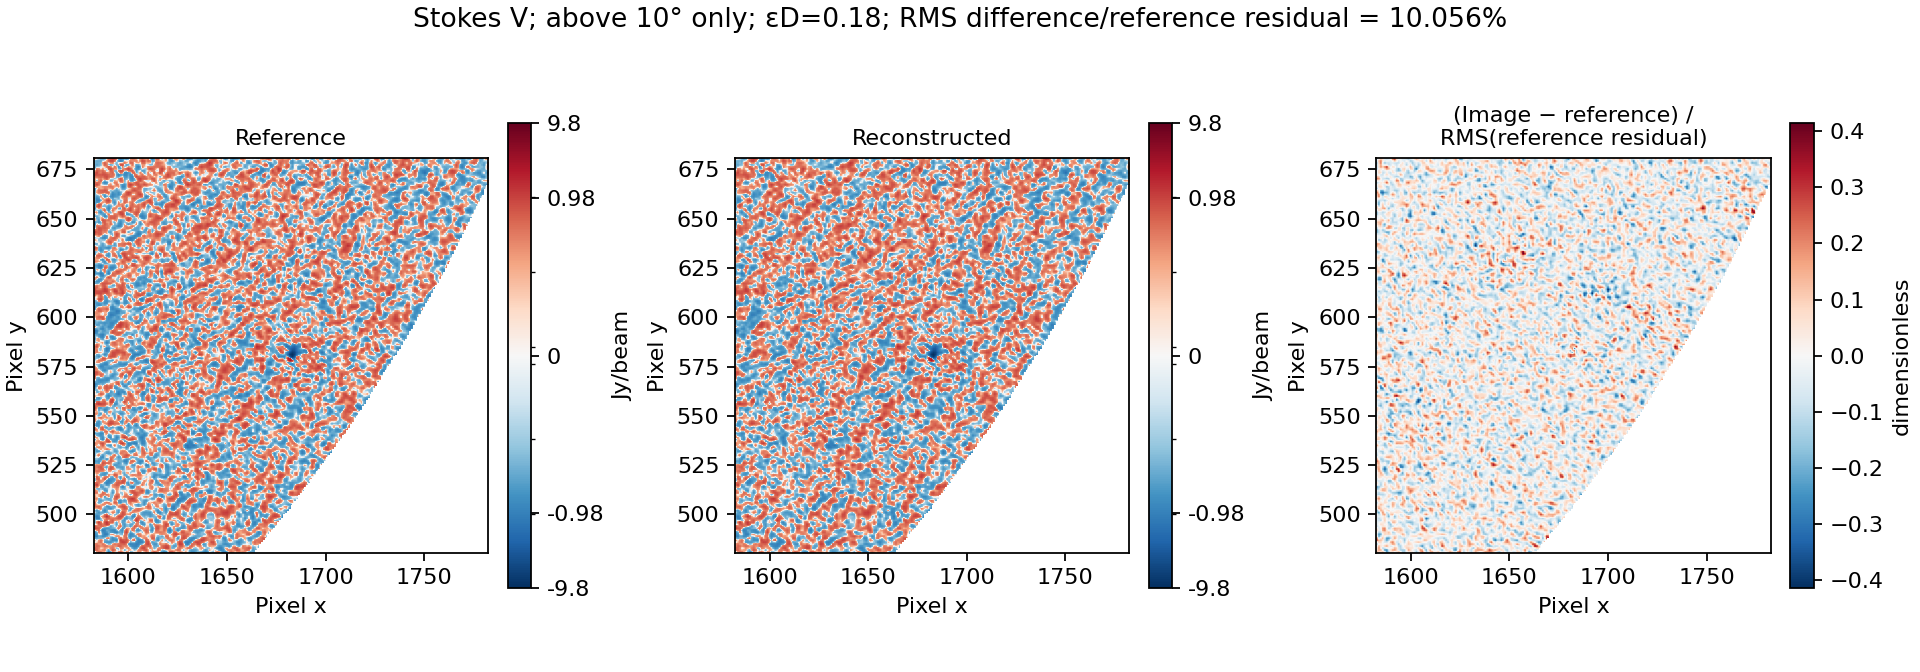
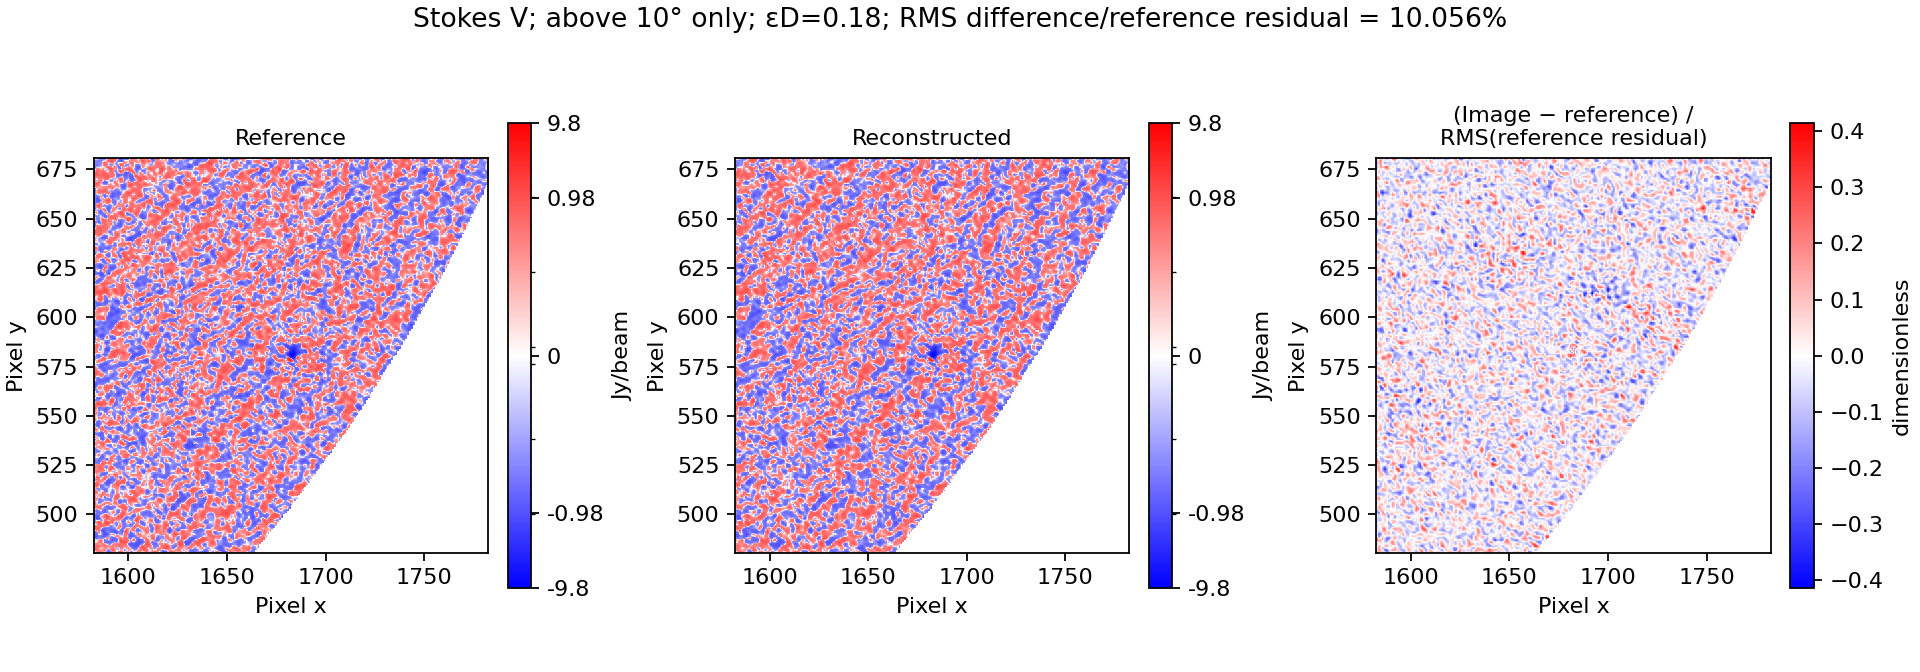
Refresh speed figure and Stokes I/V colour maps

diff --git a/scripts/report_calibrated_performance.py b/scripts/report_calibrated_performance.py
@@ -135,18 +135,38 @@ def figures(result,root,output):
     from matplotlib.colors import SymLogNorm
     from astropy.io import fits
     output.mkdir(parents=True,exist_ok=True)
-    labels=['Baseline']+list(result['pilots'])+['Selected\n3 repeats']
-    entries=[result['baseline'],*result['pilots'].values(),result['optimized']]
+    entries=[result['baseline'],result['optimized']]
     values=np.array([e['median_seconds'] for e in entries])
     errors=np.array([[e['median_seconds']-e['minimum_seconds'] for e in entries],
                      [e['maximum_seconds']-e['median_seconds'] for e in entries]])
-    fig,ax=plt.subplots(figsize=(10,4),layout='constrained')
-    bars=ax.bar(labels,values,yerr=errors,capsize=4,color=['#777777']+['#4c91bd']*(len(labels)-2)+['#237847'])
+    fig,(ax,pilot_ax)=plt.subplots(1,2,figsize=(12,5.5),layout='constrained',
+                                 gridspec_kw={'width_ratios':[1,1.5]})
+    execution=result['execution']
+    optimized_label=f"Optimized\n{execution['partition_workers']} × {result['config']['workers']}"
+    bars=ax.bar(['Baseline\n1 × 24',optimized_label],values,yerr=errors,
+                capsize=5,color=['#777777','#237847'],width=.55)
     ax.bar_label(bars,labels=[f'{v:.1f} s' for v in values],padding=5)
     ax.axhline(15,color='#a84435',linestyle='--',label='15 s target')
-    ax.set_ylabel('MS to verified single-file archive, seconds');ax.set_ylim(0,max(values)*1.18)
-    ax.set_title('Complete 15-integration MS; same scientific settings and payload')
-    ax.legend();fig.savefig(output/'calibrated-runtime.png',dpi=160);plt.close(fig)
+    ax.set_ylabel('Complete workflow, seconds');ax.set_ylim(0,max(values)*1.18)
+    ax.set_title('Three repeats: median and min–max range')
+    ax.text(.96,.94,f"{result['median_speedup']:.2f}× speedup",transform=ax.transAxes,
+            ha='right',va='top',fontsize=13,color='#237847',fontweight='bold')
+    ax.legend(loc='upper right',bbox_to_anchor=(1,.86),frameon=False)
+    pilot_order=sorted(result['pilots'],key=lambda name:tuple(map(int,name[1:].split('t'))))
+    pilot_labels=[name[1:].replace('t',' × ') for name in pilot_order]
+    pilot_values=[result['pilots'][name]['median_seconds'] for name in pilot_order]
+    selected=f"p{execution['partition_workers']}t{result['config']['workers']}"
+    bars=pilot_ax.barh(pilot_labels,pilot_values,
+        color=['#237847' if name==selected else '#4c91bd' for name in pilot_order])
+    pilot_ax.bar_label(bars,labels=[f'{v:.1f} s' for v in pilot_values],padding=5)
+    pilot_ax.invert_yaxis();pilot_ax.set_xlim(0,max(pilot_values)*1.2)
+    pilot_ax.set_xlabel('Complete workflow, seconds')
+    pilot_ax.set_ylabel('Partition processes × encoder threads each')
+    pilot_ax.set_title('Worker allocation pilots: one run each')
+    pilot_ax.axvline(15,color='#a84435',linestyle='--')
+    fig.suptitle('Complete 15-integration MS → verified single-file archive\n'
+                 'Same scientific settings and payload · warm cache · 48 logical CPUs',fontsize=13)
+    fig.savefig(output/'calibrated-runtime.png',dpi=160);plt.close(fig)
     mask=fits.getdata('results/calibrated-template/above10deg.fits').astype(bool)
     for pol,runs in result['imaging'].items():
         run=runs[0];reference,_=read_fits(run['reference']);candidate,_=read_fits(run['candidate'])
@@ -166,7 +186,8 @@ def figures(result,root,output):
                 norm=SymLogNorm(linthresh=extent*.01,vmin=-extent,vmax=extent) if i<2 else None
                 opts=dict(norm=norm) if norm else dict(vmin=-limit,vmax=limit)
                 if zoom:opts['extent']=(view[1].start-.5,view[1].stop-.5,view[0].start-.5,view[0].stop-.5)
-                im=ax.imshow(data,origin='lower',cmap='RdBu_r',**opts)
+                cmap='viridis' if pol=='I' and i<2 else 'bwr'
+                im=ax.imshow(data,origin='lower',cmap=cmap,**opts)
                 ax.set_title(title,fontsize=10);ax.set_xlabel('Pixel x');ax.set_ylabel('Pixel y')
                 bar=fig.colorbar(im,ax=ax,shrink=.75,label='Jy/beam' if i<2 else 'dimensionless')
                 if i<2:
@@ -188,8 +209,9 @@ def main():
     parser=argparse.ArgumentParser(description=__doc__)
     parser.add_argument('--root',type=Path,default=Path('results/calibrated-performance'))
     parser.add_argument('--report',type=Path,default=Path('reports/calibrated-performance.json'))
-    args=parser.parse_args();result=collect(args.root)
-    args.report.write_text(json.dumps(result,indent=2,allow_nan=False)+'\n')
+    parser.add_argument('--figures-only',action='store_true',help='Redraw the saved measurements without rewriting the report')
+    args=parser.parse_args();result=load(args.report) if args.figures_only else collect(args.root)
+    if not args.figures_only:args.report.write_text(json.dumps(result,indent=2,allow_nan=False)+'\n')
     figures(result,args.root,Path('devnotes/figs'))
     print(json.dumps(dict(status='complete',speedup=result['median_speedup'],seconds=result['optimized']['median_seconds'])))
 

diff --git a/devnotes/calibrated-performance.md b/devnotes/calibrated-performance.md
@@ -131,6 +131,10 @@ processes and must not be stacked into elapsed wall time.
 
 ![Full-MS timing comparison](figs/calibrated-runtime.png)
 
+The speed figure separates the three-run median/range comparison from the
+single-run worker-allocation pilots. Labels give partition processes × encoder
+threads per process; the 15-second target refers to the complete workflow.
+
 Baseline parent peak RSS was 0.99–1.02 GB. Optimized parent peaks were about
 0.136 GB, and the largest terminated worker peaks were 0.714–0.738 GB.
 These are process peaks from `getrusage`, **not a measured simultaneous sum of
@@ -230,7 +234,8 @@ science. Absolute polarization accuracy, leakage calibration, spectral features
 and temporal behaviour require separate validation.
 
 The maps show the reference and reconstructed images on a shared symmetric-log
-flux scale and a separate linear difference scale. The difference divisor is
+flux scale: **viridis for Stokes I** and **bwr for Stokes V**. Signed difference
+panels use **bwr**, centred on zero, on a separate linear scale. The difference divisor is
 the scalar reference residual RMS, not the residual value at each pixel. Zooms
 are 200×200 pixels around each Stokes reference's largest absolute pixel inside
 the comparison mask; the location is not identified as a specific source.
@@ -284,3 +289,11 @@ contains per-run timing/bytes, process memory, profile excerpts, source/library
 hashes, identity audits, CASA scope and imaging metrics. Figures and this note
 are generated/maintained outside the paper. The local `agent.md` and `mem.md`
 working notes are ignored by Git.
+
+Figure styling updated 26 October 2026. Numerical measurements, FITS inputs,
+image colour limits and the above-10° mask are unchanged. Redraw the figures from
+the saved measurements with:
+
+```bash
+PYTHONPATH=src:scripts python scripts/report_calibrated_performance.py --figures-only
+```
